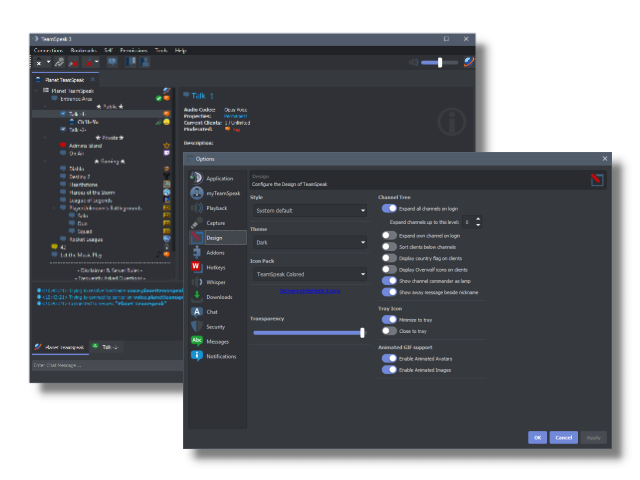
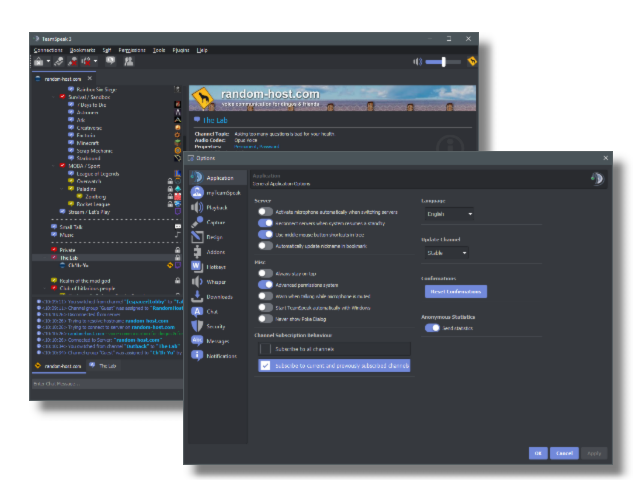
Update README and LICENSE
* rename LICENSE to LICENSE.txt (for the Windows folks)
* update theme preview
* extend README.md

diff --git a/README.md b/README.md
@@ -6,22 +6,33 @@ software. How did that happen?
 
 ![Dark Theme Preview][2]
 
-**Status:**  
-This theme is **work in progress**. Issues are to be expected and will be fixed over time.
-Note that some issues are caused by design flaws within the TeamSpeak client application itself and
-cannot be fixed on the theme level.
-
 Usage
 -----
 
-Download the latest release file from [GitHub][3], double-click the `dark.ts3_style` file and follow
+Download the [latest release file][3] from GitHub, double-click the `dark.ts3_addon` file and follow
 the instructions of TeamSpeak's addon installer.
+
+Development
+-----------
+
+Everyone can participate in theme development by reporting [issues][4] or forking the repository on
+[GitHub][5].
+
+**Important:** Before reporting an issue with the theme, please check [previously reported issues][4]
+and ensure that the issue has not been already reported.
+
+**Note:** [Some issues][6] are caused by design flaws within the TeamSpeak client application itself
+and **cannot** be fixed on the theme level.
 
 License
 -------
 
-See LICENSE.txt for full license details.
+See [LICENSE.txt][7] for full license details.
 
 [1]: https://teamspeak.com
 [2]: preview.png "Dark Theme Preview"
 [3]: https://github.com/randomhost/teamspeak-dark/releases
+[4]: https://github.com/randomhost/teamspeak-dark/issues
+[5]: https://github.com/randomhost/teamspeak-dark/
+[6]: https://github.com/randomhost/teamspeak-dark/issues?q=is%3Aissue+is%3Aopen+label%3Aupstream
+[7]: LICENSE.txt
